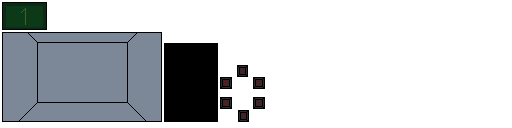
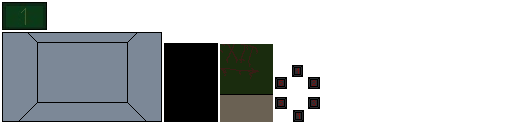
add first floor first wall

Changed region(s): [[0.4062, 0.3438, 0.625, 0.9688]]

diff --git a/core/src/main/java/com/elevator_project/Elevator.java b/core/src/main/java/com/elevator_project/Elevator.java
@@ -1,23 +1,13 @@
 package com.elevator_project;
 
 import com.badlogic.gdx.Gdx;
-import com.badlogic.gdx.graphics.Pixmap;
-import com.badlogic.gdx.graphics.g2d.Sprite;
-import com.badlogic.gdx.graphics.g2d.SpriteBatch;
 import com.badlogic.gdx.graphics.g2d.TextureAtlas;
-import com.badlogic.gdx.graphics.g3d.Shader;
-import com.badlogic.gdx.graphics.glutils.FrameBuffer;
-import com.badlogic.gdx.graphics.glutils.ShaderProgram;
-import com.badlogic.gdx.scenes.scene2d.Actor;
 import com.badlogic.gdx.scenes.scene2d.Group;
 import com.badlogic.gdx.scenes.scene2d.InputEvent;
 import com.badlogic.gdx.scenes.scene2d.Stage;
 import com.badlogic.gdx.scenes.scene2d.ui.Image;
-import com.badlogic.gdx.scenes.scene2d.utils.ChangeListener;
 import com.badlogic.gdx.scenes.scene2d.utils.ClickListener;
 
-import java.awt.*;
-import java.sql.Array;
 import java.util.ArrayList;
 import java.util.List;
 
@@ -25,31 +15,25 @@ public class Elevator {
 
     private static TextureAtlas atlas;
 
-    private static Sprite elevator;
     private static final float ELEVATOR_RESIZE_FACTOR = 158f;
-    private static Image elevatorImage;
 
-    private static Sprite back;
     private static final float BACK_RESIZE_FACTOR = 240f;
     private static final float BACK_VERT_FACTOR = 4.65f;
     private static final float BACK_HORIZ_FACTOR = 2.6f;
-    private static Image backImage;
 
-    private static Sprite display;
     private static final float DISPLAY_RESIZE_FACTOR = 700f;
     private static final float DISPLAY_VERT_FACTOR = 1.8f;
     private static final float DISPLAY_HORIZ_FACTOR = 1.5f;
-    private static Image displayImage;
 
-    private static Sprite buttons;
     private static final float BUTTONS_RESIZE_FACTOR = 900f;
     private static final float BUTTONS_VERT_FACTOR = 2.35f;
     private static final float BUTTONS_HORIZ_FACTOR = 1.53f;
-    private static Image buttonsImage;
 
     private static Group elevatorGroup;
 
-    private static List<Image> elements = new ArrayList<>();
+    private static final List<Image> elements = new ArrayList<>();
+
+    private static int floorIndex;
 
     public static TextureAtlas getAtlas() {
         return atlas;
@@ -57,46 +41,42 @@ public class Elevator {
 
 
     public static void initialize(float width, float height, Stage stage) {
+        floorIndex = 1;
+
         elevatorGroup = new Group();
 
         atlas = new TextureAtlas(Gdx.files.internal("Elevator.atlas"));
 
-        elevator = atlas.createSprite("Elevator");
-        elevatorImage = new Image(elevator);
-        elevatorImage.setSize(elevator.getWidth()*width/ELEVATOR_RESIZE_FACTOR,
+        Image elevator = new Image(atlas.createSprite("Elevator"));
+        elevator.setSize(elevator.getWidth()*width/ELEVATOR_RESIZE_FACTOR,
             elevator.getHeight()*width/ELEVATOR_RESIZE_FACTOR);
-        elements.add(elevatorImage);
+        elements.add(elevator);
 
-        back = atlas.createSprite("Back");
-        backImage = new Image(back);
-        backImage.setSize(back.getWidth() * width / BACK_RESIZE_FACTOR,
+        Image back = new Image(atlas.createSprite("Back", 1));
+        back.setSize(back.getWidth() * width / BACK_RESIZE_FACTOR,
             back.getHeight() * width / BACK_RESIZE_FACTOR);
-        backImage.setPosition(width / BACK_HORIZ_FACTOR, height / BACK_VERT_FACTOR);
-        elements.add(backImage);
+        back.setPosition(width / BACK_HORIZ_FACTOR, height / BACK_VERT_FACTOR);
+        elements.add(back);
 
-        display = atlas.createSprite("Display", 1);
-        displayImage = new Image(display);
-        displayImage.setSize(display.getWidth()*width/DISPLAY_RESIZE_FACTOR,
+        Image display = new Image(atlas.createSprite("Display", 1));
+        display.setSize(display.getWidth()*width/DISPLAY_RESIZE_FACTOR,
             display.getHeight()*width/DISPLAY_RESIZE_FACTOR);
-        displayImage.setPosition(width / DISPLAY_HORIZ_FACTOR,
+        display.setPosition(width / DISPLAY_HORIZ_FACTOR,
             height / DISPLAY_VERT_FACTOR);
-        elements.add(displayImage);
+        elements.add(display);
 
-        buttons = atlas.createSprite("Buttons");
-        buttonsImage = new Image(buttons);
-        buttonsImage.setSize(buttons.getWidth() * width / BUTTONS_RESIZE_FACTOR,
+        Image buttons = new Image(atlas.createSprite("Buttons"));
+        buttons.setSize(buttons.getWidth() * width / BUTTONS_RESIZE_FACTOR,
             buttons.getHeight() * width / BUTTONS_RESIZE_FACTOR);
-        buttonsImage.setPosition(width / BUTTONS_HORIZ_FACTOR, height / BUTTONS_VERT_FACTOR);
-        buttonsImage.addListener(new ClickListener() {
+        buttons.setPosition(width / BUTTONS_HORIZ_FACTOR, height / BUTTONS_VERT_FACTOR);
+        buttons.addListener(new ClickListener() {
             @Override
             public void clicked(InputEvent event, float x, float y) {
                 dispose();
                 Buttons.render();
             }
         });
-        elements.add(buttonsImage);
-
-
+        elements.add(buttons);
     }
 
     public static void render() {
@@ -110,5 +90,9 @@ public class Elevator {
         for (Image element : elements) {
             elevatorGroup.removeActor(element);
         }
+    }
+
+    public static int getFloorIndex () {
+        return floorIndex;
     }
 }

diff --git a/core/src/main/java/com/elevator_project/FirstFloor.java b/core/src/main/java/com/elevator_project/FirstFloor.java
@@ -1,0 +1,72 @@
+package com.elevator_project;
+
+import com.badlogic.gdx.graphics.g2d.TextureAtlas;
+import com.badlogic.gdx.scenes.scene2d.Group;
+import com.badlogic.gdx.scenes.scene2d.ui.Image;
+
+import java.util.List;
+
+public class FirstFloor implements Floor{
+
+    private int wallIndex;
+    private final List<Group> groups;
+    private final Group firstSide;
+    private final Group secondSide;
+    private final Group thirdSide;
+    private final Group fourthSide;
+
+    public FirstFloor(float w, float h) {
+        TextureAtlas atlas = new TextureAtlas("FirstFloor.atlas");
+        firstSide = new Group();
+        secondSide = new Group();
+        thirdSide = new Group();
+        fourthSide = new Group();
+        groups = List.of(firstSide, secondSide, thirdSide, fourthSide);
+
+        float WALL_RESIZE_FACTOR = 158f;
+
+        Image firstWall = new Image(atlas.createSprite("Wall", 1));
+        firstWall.setSize(firstWall.getWidth() * w / WALL_RESIZE_FACTOR,
+            firstWall.getHeight() * w / WALL_RESIZE_FACTOR);
+        firstWall.setPosition(0, 0);
+        firstSide.addActor(firstWall);
+
+        firstSide.setVisible(true);
+        secondSide.setVisible(false);
+        thirdSide.setVisible(false);
+        fourthSide.setVisible(false);
+
+        wallIndex = 1;
+    }
+
+    public void render() {
+        for (Group group : groups) {
+            App.getStage().addActor(group);
+        }
+    }
+
+    public void move (int from, int to) {
+        Group hideWall = switch (from) {
+            case 1 -> firstSide;
+            case 2 -> secondSide;
+            case 3 -> thirdSide;
+            case 4 -> fourthSide;
+            default -> firstSide;
+        };
+        hideWall.setVisible(false);
+        Group showWall = switch (to) {
+            case 1 -> firstSide;
+            case 2 -> secondSide;
+            case 3 -> thirdSide;
+            case 4 -> fourthSide;
+            default -> firstSide;
+        };
+        showWall.setVisible(true);
+    }
+
+    public void dispose() {
+        for (Group group : groups) {
+            group.remove();
+        }
+    }
+}

diff --git a/core/src/main/java/com/elevator_project/Door.java b/core/src/main/java/com/elevator_project/Door.java
@@ -1,6 +1,5 @@
 package com.elevator_project;
 
-import com.badlogic.gdx.Gdx;
 import com.badlogic.gdx.graphics.g2d.Animation;
 import com.badlogic.gdx.graphics.g2d.TextureAtlas;
 import com.badlogic.gdx.graphics.g2d.TextureRegion;
@@ -9,11 +8,7 @@ import com.badlogic.gdx.scenes.scene2d.ui.Image;
 import com.badlogic.gdx.scenes.scene2d.utils.ClickListener;
 import com.badlogic.gdx.scenes.scene2d.utils.TextureRegionDrawable;
 
-import java.util.List;
-
 public class Door {
-
-    private static TextureAtlas atlas;
 
     private static Animation<TextureRegion> doorAnimation;
     private static Image door;
@@ -26,7 +21,8 @@ public class Door {
     private static boolean openDoor;
 
     public static void initialize(float w, float h) {
-        atlas = new TextureAtlas("Door.atlas");
+        TextureAtlas atlas = new TextureAtlas("Door.atlas");
+
         door = new Image();
         doorAnimation = new Animation<>(0.15f, atlas.findRegions("Door"));
         door = new Image(new TextureRegionDrawable(doorAnimation.getKeyFrame(0)));
@@ -38,6 +34,10 @@ public class Door {
                 if (!openDoor) {
                     stateTime = 0;
                     openDoor = true;
+                } else if (doorAnimation.isAnimationFinished(stateTime)){
+                    dispose();
+                    Elevator.dispose();
+                    App.getFloor(Elevator.getFloorIndex()).render();
                 }
             }
         });
@@ -51,5 +51,9 @@ public class Door {
             TextureRegion frame = doorAnimation.getKeyFrame(stateTime, false);
             door.setDrawable(new TextureRegionDrawable(frame));
         }
+    }
+
+    private static void dispose() {
+        door.remove();
     }
 }

diff --git a/core/src/main/java/com/elevator_project/App.java b/core/src/main/java/com/elevator_project/App.java
@@ -15,6 +15,7 @@ public class App extends ApplicationAdapter {
     private float h;
     private OrthographicCamera camera;
     private static Stage stage;
+    private static FirstFloor firstFloor;
 
     @Override
     public void create() {
@@ -27,6 +28,7 @@ public class App extends ApplicationAdapter {
         Buttons.initialize(w, h);
         Elevator.render();
         Door.initialize(w, h);
+        firstFloor = new FirstFloor(w, h);
     }
 
     @Override
@@ -45,5 +47,12 @@ public class App extends ApplicationAdapter {
 
     public static Stage getStage() {
         return stage;
+    }
+
+    public static Floor getFloor(int index) {
+        return switch (index) {
+            case 1 -> firstFloor;
+            default -> firstFloor;
+        };
     }
 }

diff --git a/core/src/main/java/com/elevator_project/Floor.java b/core/src/main/java/com/elevator_project/Floor.java
@@ -1,0 +1,7 @@
+package com.elevator_project;
+
+public interface Floor {
+    public void render();
+    public void move(int from, int to);
+    public void dispose();
+}
